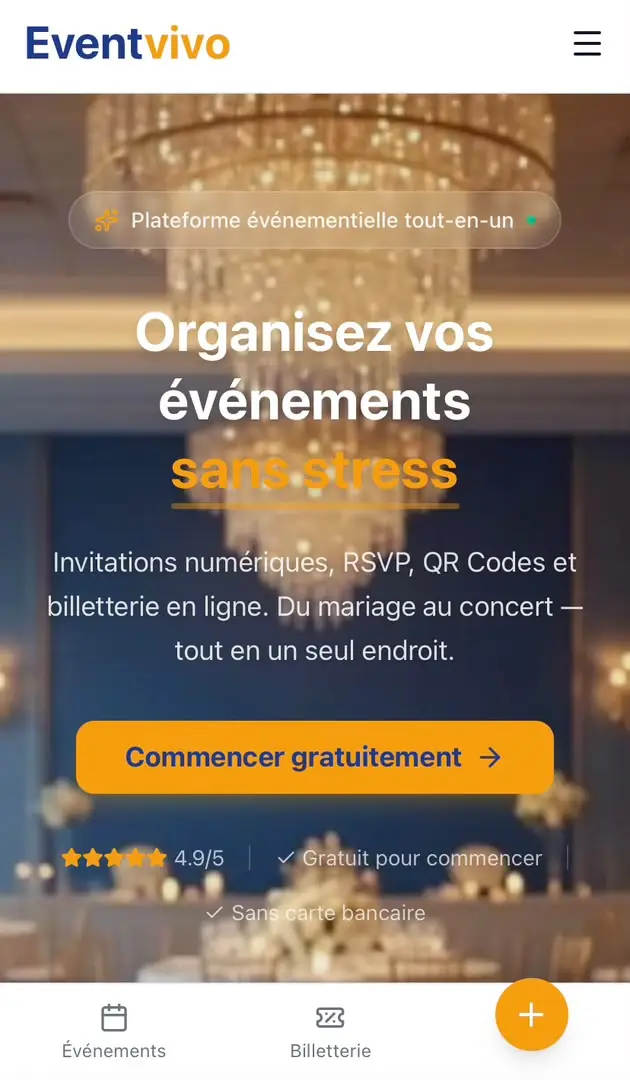
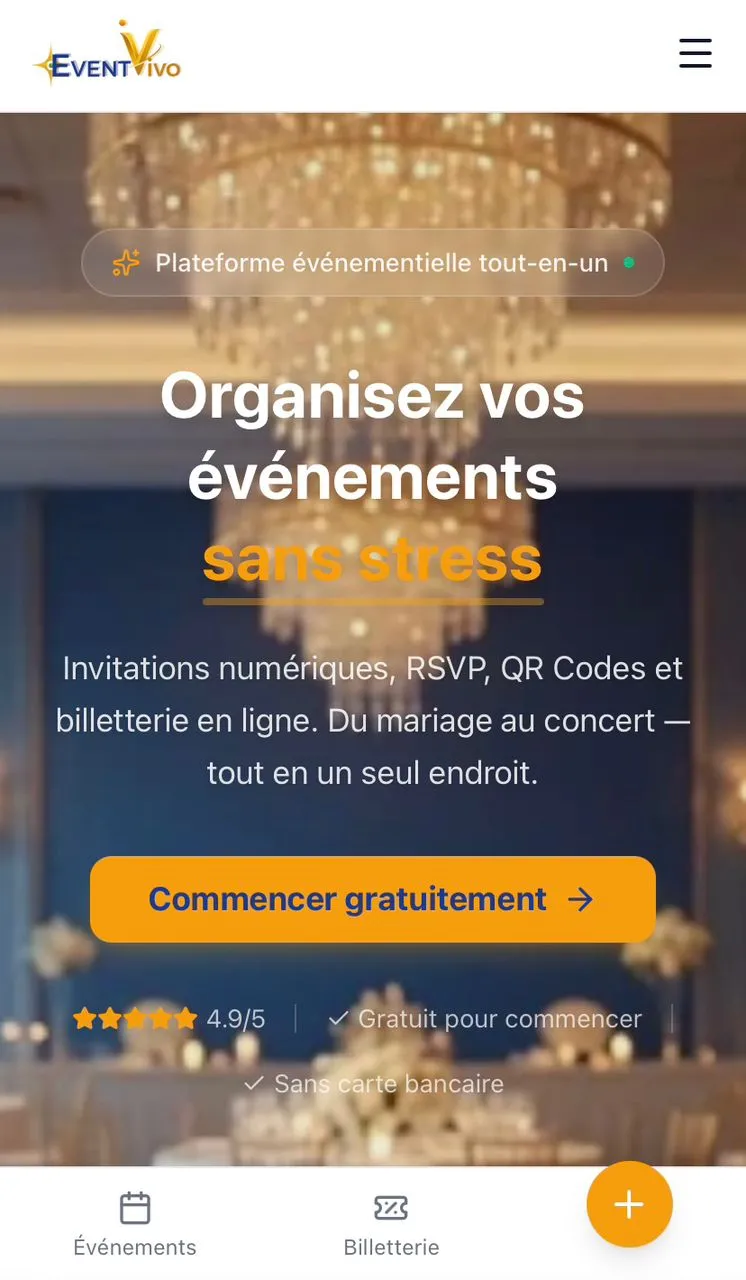
Ajoute le témoignage de Ya Tchégbo, mentionne la billetterie en ligne pour Eventvivo et met à jour son image

Changed region(s): [[0.0, 0.0, 1.0, 0.9778], [0.0, 0.8556, 0.1508, 0.9167], [0.9048, 0.0306, 0.9651, 0.0611]]

diff --git a/src/data/testimonials.ts b/src/data/testimonials.ts
@@ -23,5 +23,12 @@ export const testimonials = [
     rating: 5,
     logo: "/images/burkina.webp",
   },
-  
+  {
+    id: 4,
+    name: "Fondatrice de Ya Tchégbo",
+    role: "Association Ya Tchégbo",
+    content: "Alayde Tech a su créer un site qui reflète avec justesse et dignité la mission de Ya Tchégbo. Il nous permet de présenter notre engagement auprès des femmes et des enfants que nous accompagnons, tout en facilitant la prise de contact avec nos partenaires et donateurs. Une équipe à l'écoute et respectueuse de la sensibilité de notre cause.",
+    rating: 5,
+    logo: "/images/yatchegbo.webp",
+  },
 ];

diff --git a/src/data/projects.ts b/src/data/projects.ts
@@ -22,7 +22,7 @@ export const projects: Project[] = [
   {
     id: 1,
     title: "Eventvivo",
-    description: "Invitations numériques, RSVP, QR Codes et suivi des invités en temps réel. Créez votre événement gratuitement (mariage, anniversaire, baptême, dot, etc.).",
+    description: "Invitations numériques, billetterie en ligne, RSVP, QR Codes et suivi des invités en temps réel. Créez votre événement gratuitement (mariage, anniversaire, baptême, dot, etc.).",
     category: "saas",
     image: "/images/eventvivo.webp",
     link: "https://eventvivo.com",
